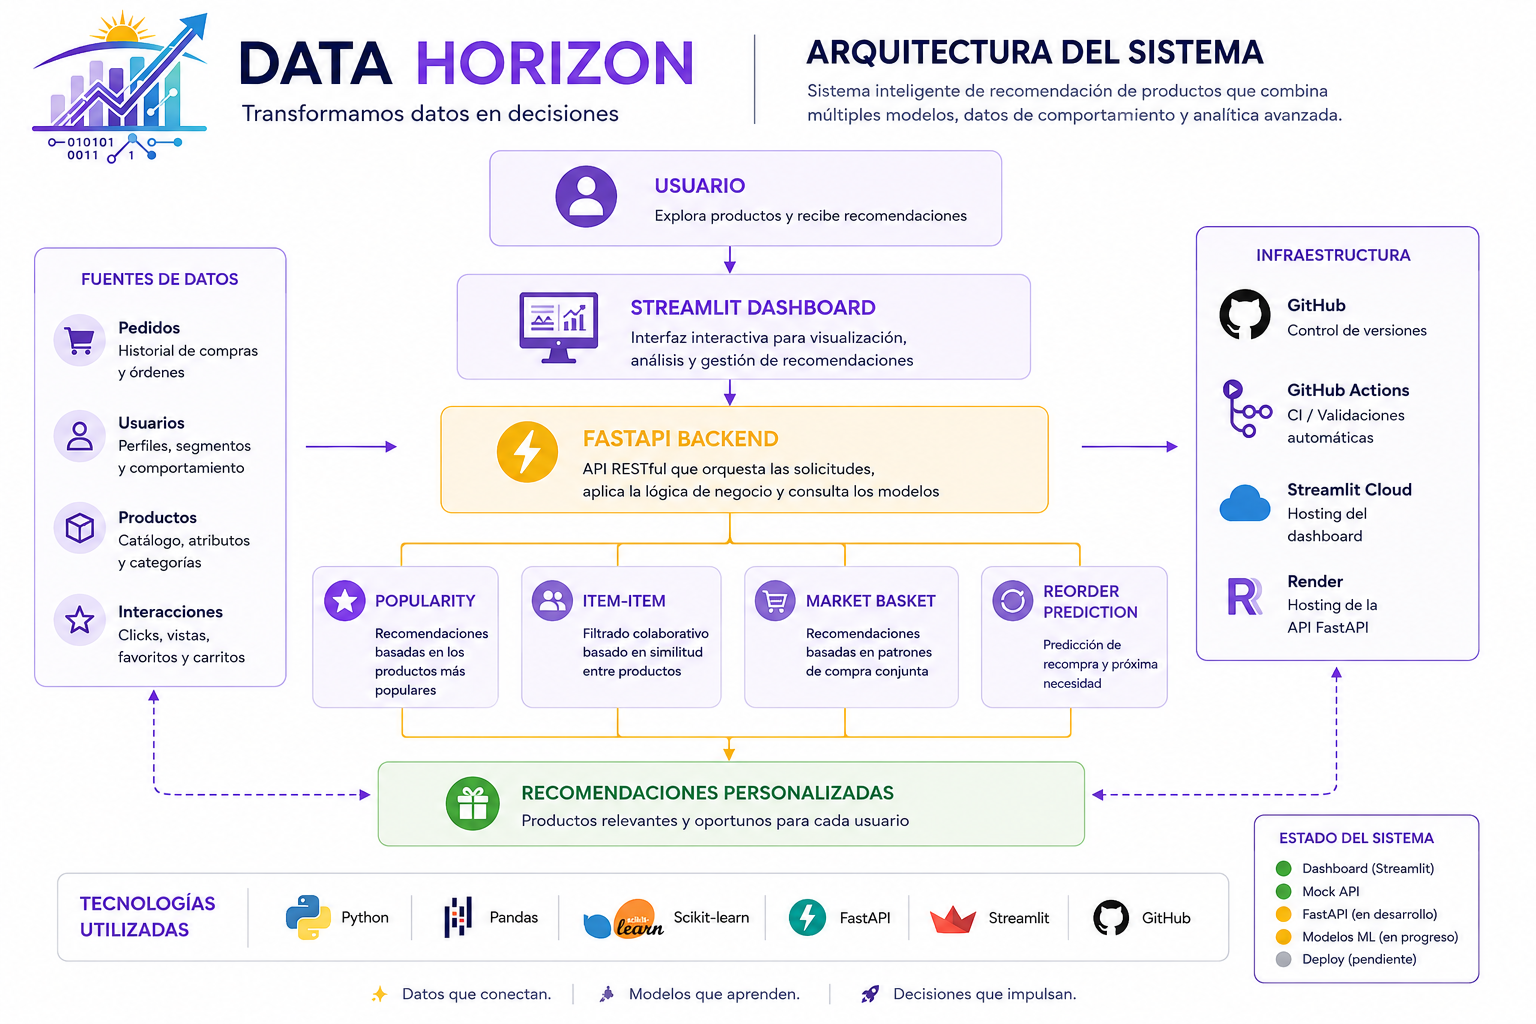
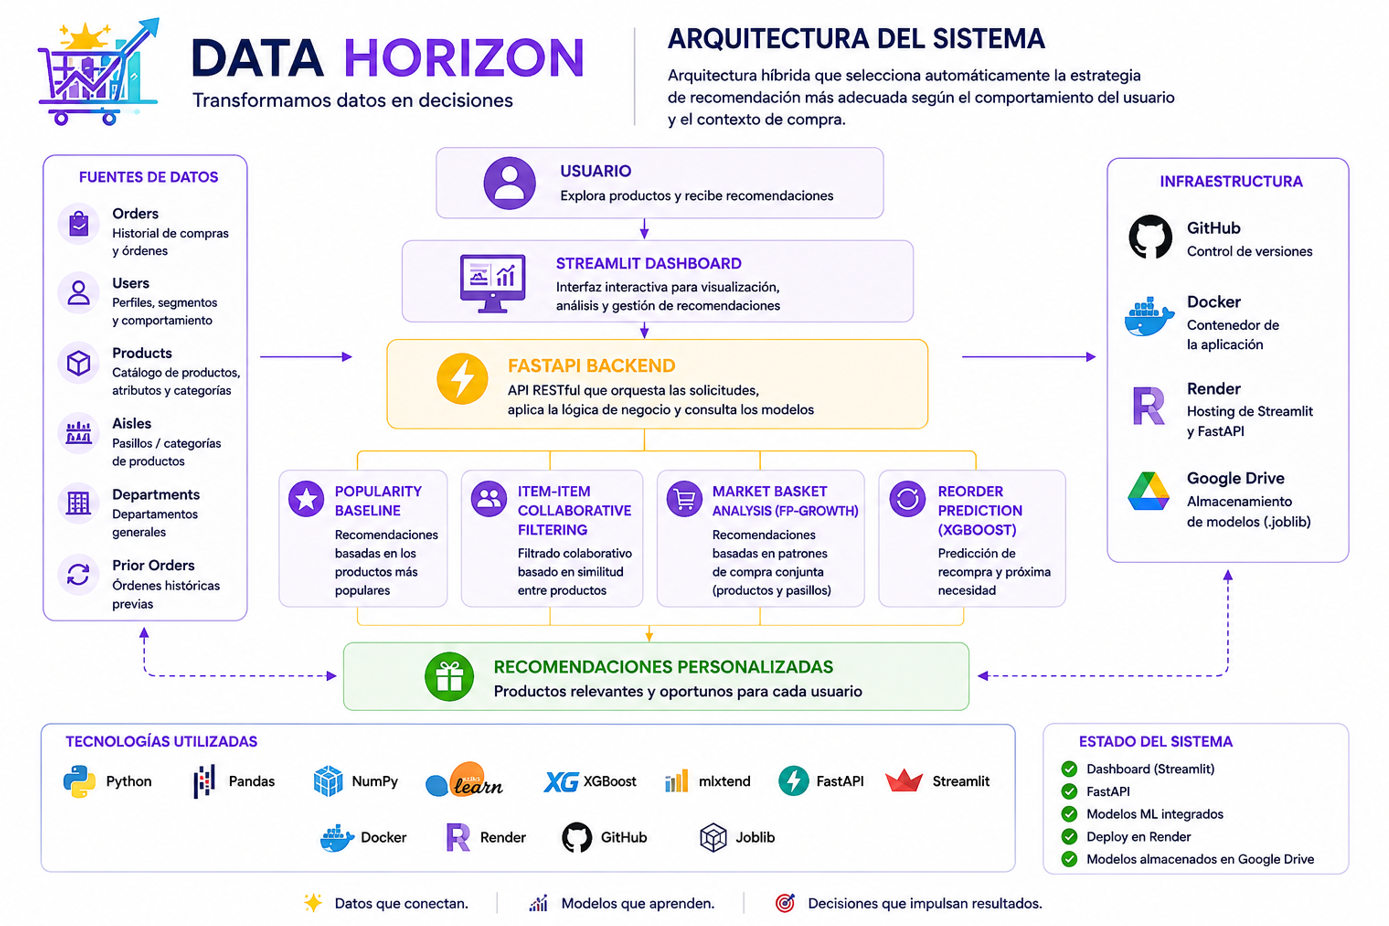
Ajusto KPIs y estilos del dashboard

diff --git a/app/pages/2_📊_KPIs.py b/app/pages/2_📊_KPIs.py
@@ -31,6 +31,7 @@ def load_metrics():
 with st.sidebar:
     st.image("assets/logo_data_horizon.png", width=120)
 
+
 henry_tag("Evaluación de modelos")
 henry_title("KPIs del Sistema")
 
@@ -46,6 +47,7 @@ st.divider()
 
 data = load_metrics()
 
+
 # ==========================
 # KPIs generales
 # ==========================
@@ -58,6 +60,7 @@ c3.metric("Interacciones", f"{data['total_interactions']:,}".replace(",", "."))
 c4.metric("Sparsity", f"{data['sparsity']:.2f}%")
 
 st.divider()
+
 
 # ==========================
 # Arquitectura del recomendador
@@ -92,6 +95,7 @@ st.info(
 
 st.divider()
 
+
 # ==========================
 # Segmentación
 # ==========================
@@ -109,6 +113,7 @@ k2.metric("Silhouette Score", f"{kmeans['silhouette']:.4f}")
 k3.metric("Davies-Bouldin", f"{kmeans['davies_bouldin']:.4f}")
 
 st.divider()
+
 
 # ==========================
 # Performance de modelos
@@ -159,10 +164,19 @@ if not chart_df.empty:
         chart_df,
         x="model",
         y="value_pct",
-        text=chart_df["value_pct"].round(2).astype(str) + "%"
+        text=chart_df["value_pct"].round(2).astype(str) + "%",
+        color="model",
+        color_discrete_map={
+            "Item-Item Collaborative Filtering": "#7C3AED",
+            "Reorder Prediction (XGBoost)": "#F2E40C"
+        }
     )
 
-    fig.update_traces(textposition="outside")
+    fig.update_traces(
+        textposition="outside",
+        marker_line_color="#1A1A1A",
+        marker_line_width=1
+    )
 
     fig.update_layout(
         plot_bgcolor="white",
@@ -175,12 +189,16 @@ if not chart_df.empty:
         xaxis_title="Modelo",
         yaxis_title="Valor (%)",
         showlegend=False,
-        margin=dict(l=20, r=20, t=30, b=20)
+        margin=dict(l=20, r=20, t=30, b=20),
+        yaxis=dict(
+            range=[0, chart_df["value_pct"].max() * 1.18]
+        )
     )
 
     st.plotly_chart(fig, use_container_width=True)
 
 st.divider()
+
 
 # ==========================
 # Reorder Prediction
@@ -212,6 +230,7 @@ st.success(
 )
 
 st.divider()
+
 
 # ==========================
 # Conclusiones

diff --git a/app/🏠_Inicio.py b/app/🏠_Inicio.py
@@ -83,8 +83,8 @@ with status_col5:
     st.markdown(
         """
         <div class="status-card">
-            <div class="status-title">🟡 Deploy Cloud</div>
-            <div class="status-value status-progress">En proceso</div>
+            <div class="status-title">🟢 Deploy Cloud</div>
+            <div class="status-value status-ok">Conectado</div>
         </div>
         """,
         unsafe_allow_html=True